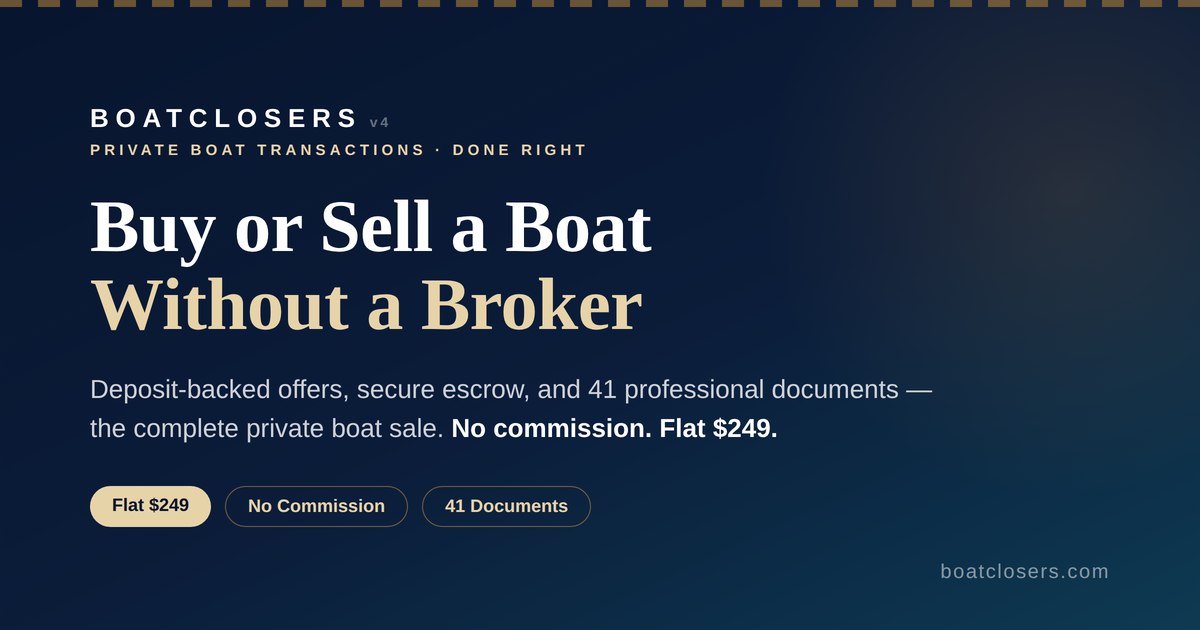
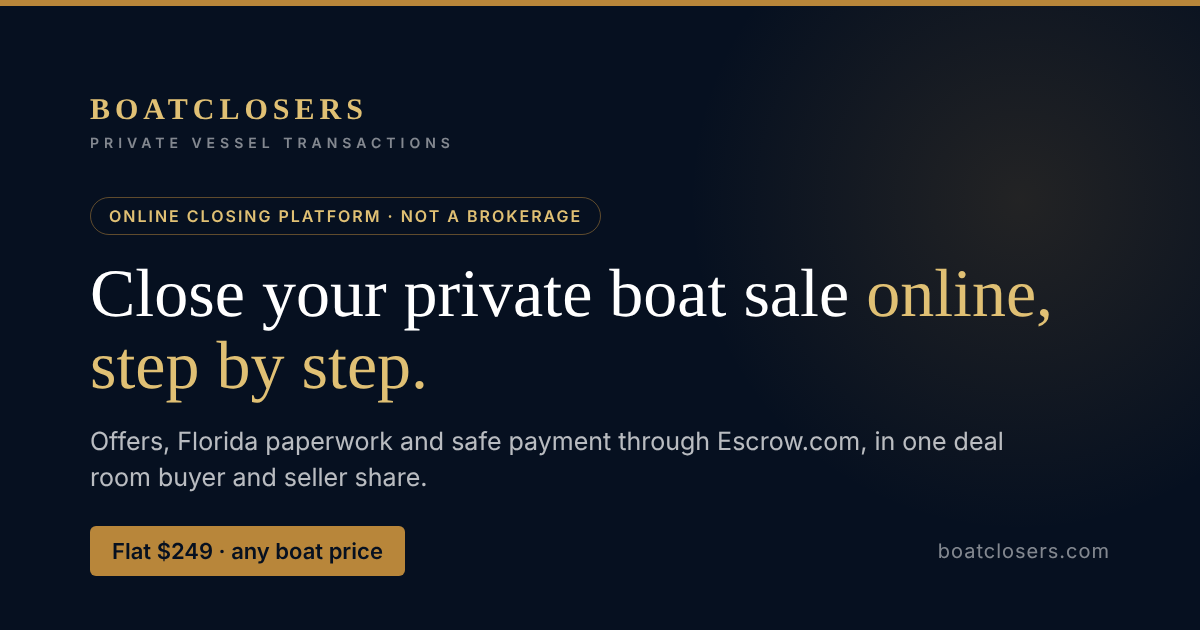
SEO and clarity fixes: server-rendered homepage, Express price, states
- Homepage is now rendered on the server (was ssr:false), so Google and
  link previews get the full text. During the session check the homepage
  renders under the loading overlay; a pre-paint script shows the overlay
  only when a session or link params exist, so signed-in users see no flash
- Phone layout switch moved to before first paint so server and client
  HTML match (no hydration redraw)
- Express: own share card and image at $29.99 (was inheriting "Flat $249");
  "seller signs the papers but never needs an account"; inspection is
  "not a replacement for a marine survey" + new FAQ
- New share image for the homepage (old one said "Without a Broker",
  "No commission", 41 documents)
- Pricing: what $249 covers, flat at any boat price, Escrow.com fee separate
- "What not a brokerage means" line in the broker trust band
- "Florida today, more states coming" band with email + state signup
  (new state_interest table, server-only) and FAQs for states and $249

Claude-Session: https://claude.ai/code/session_01P1Gv5uzS5AiaAt9T1HGHAj

diff --git a/src/components/BoatClosersApp.jsx b/src/components/BoatClosersApp.jsx
@@ -1,7 +1,9 @@
 'use client'
 import DocumentsStepV2 from "./DocumentsStepV2";
 import ContingencyPicker from "./ContingencyPicker";
-import { useState, useRef, useEffect, useCallback } from "react";
+import { useState, useRef, useEffect, useLayoutEffect, useCallback } from "react";
+// useLayoutEffect on the client (runs before paint), a no-op on the server.
+const useIsoLayoutEffect = typeof window !== "undefined" ? useLayoutEffect : useEffect;
 import { DOCUMENTS, fillDocument } from "../data/documents";
 import VesselLookup from "./VesselLookup";
 import DocFinder from "./DocFinder";
@@ -5699,9 +5701,10 @@ function ProductPreview({ F, X, isMobile, onStart }) {
   // moves while someone is reading.
   const SLIDE_MS = 7000;
   const boxRef = useRef(null);
-  const [auto, setAuto] = useState(() => {
-    try { return !window.matchMedia("(prefers-reduced-motion: reduce)").matches; } catch (e) { return true; }
-  });
+  const [auto, setAuto] = useState(true);
+  useEffect(() => {
+    try { if (window.matchMedia("(prefers-reduced-motion: reduce)").matches) setAuto(false); } catch (e) {}
+  }, []);
   const [onScreen, setOnScreen] = useState(false);
   const [hover, setHover] = useState(false);
   useEffect(() => {
@@ -5989,15 +5992,62 @@ function ProductPreview({ F, X, isMobile, onStart }) {
   );
 }
 
+// ── "Florida today, more states coming" with a state-interest signup ─────────
+const US_STATES = [["AL","Alabama"],["AK","Alaska"],["AZ","Arizona"],["AR","Arkansas"],["CA","California"],["CO","Colorado"],["CT","Connecticut"],["DE","Delaware"],["DC","District of Columbia"],["GA","Georgia"],["HI","Hawaii"],["ID","Idaho"],["IL","Illinois"],["IN","Indiana"],["IA","Iowa"],["KS","Kansas"],["KY","Kentucky"],["LA","Louisiana"],["ME","Maine"],["MD","Maryland"],["MA","Massachusetts"],["MI","Michigan"],["MN","Minnesota"],["MS","Mississippi"],["MO","Missouri"],["MT","Montana"],["NE","Nebraska"],["NV","Nevada"],["NH","New Hampshire"],["NJ","New Jersey"],["NM","New Mexico"],["NY","New York"],["NC","North Carolina"],["ND","North Dakota"],["OH","Ohio"],["OK","Oklahoma"],["OR","Oregon"],["PA","Pennsylvania"],["RI","Rhode Island"],["SC","South Carolina"],["SD","South Dakota"],["TN","Tennessee"],["TX","Texas"],["UT","Utah"],["VT","Vermont"],["VA","Virginia"],["WA","Washington"],["WV","West Virginia"],["WI","Wisconsin"],["WY","Wyoming"],["PR","Puerto Rico"],["VI","U.S. Virgin Islands"]];
+function StatesBand({ F, X, isMobile }) {
+  const [email, setEmail] = useState("");
+  const [st, setSt] = useState("");
+  const [trap, setTrap] = useState("");
+  const [state, setState] = useState({ busy:false, ok:false, err:"" });
+  const submit = async (e) => {
+    e.preventDefault();
+    setState({ busy:true, ok:false, err:"" });
+    try {
+      const r = await fetch("/api/state-interest", { method:"POST", headers:{ "Content-Type":"application/json" }, body: JSON.stringify({ email, state: st, website: trap }) });
+      const j = await r.json().catch(()=>({}));
+      setState(r.ok ? { busy:false, ok:true, err:"" } : { busy:false, ok:false, err: j.error || "Could not save." });
+    } catch { setState({ busy:false, ok:false, err:"Network error. Please try again." }); }
+  };
+  const field = { fontFamily:F.sans, fontSize:14, padding:"11px 12px", border:`1px solid ${X.mist}`, borderRadius:6, background:"#fff", color:C.navy, minWidth:0 };
+  return (
+    <div style={{ background:X.sandWarm, borderBottom:`0.5px solid ${X.mist}`, padding:"2.75rem 1.25rem" }}>
+      <div style={{ maxWidth:640, margin:"0 auto", textAlign:"center" }}>
+        <div style={{ fontFamily:F.sans, fontSize:11, letterSpacing:3, color:C.brass, textTransform:"uppercase", fontWeight:600 }}>Where we work</div>
+        <h2 style={{ fontFamily:F.serif, fontWeight:500, fontSize:23, color:C.navy, margin:"10px 0 8px" }}>Florida today, more states coming</h2>
+        <p style={{ fontFamily:F.sans, fontSize:14, color:X.slate, lineHeight:1.7, margin:"0 auto 18px", maxWidth:540 }}>
+          The paperwork is built for Florida deals and Coast Guard documented boats. Buying or selling somewhere else? Tell us where, and we&rsquo;ll let you know when your state is ready.
+        </p>
+        {state.ok ? (
+          <div style={{ fontFamily:F.sans, fontSize:14, color:"#2e7d4f", fontWeight:600 }}>Thanks — we&rsquo;ll email you when your state is ready.</div>
+        ) : (
+          <form onSubmit={submit} style={{ display:"flex", gap:8, flexWrap:"wrap", justifyContent:"center" }}>
+            <input type="text" value={trap} onChange={e=>setTrap(e.target.value)} tabIndex={-1} autoComplete="off" aria-hidden="true" style={{ position:"absolute", left:-9999, width:1, height:1, opacity:0 }} />
+            <input type="email" required value={email} onChange={e=>setEmail(e.target.value)} placeholder="Your email" aria-label="Your email" style={{ ...field, flex: isMobile ? "1 1 100%" : "1 1 220px" }} />
+            <select required value={st} onChange={e=>setSt(e.target.value)} aria-label="Your state" style={{ ...field, flex: isMobile ? "1 1 100%" : "0 1 190px" }}>
+              <option value="">Your state…</option>
+              {US_STATES.map(([c,n])=> <option key={c} value={c}>{n}</option>)}
+            </select>
+            <button type="submit" disabled={state.busy} style={{ fontFamily:F.sans, fontSize:14, fontWeight:600, background:C.navy, color:"#fff", border:"none", borderRadius:4, padding:"11px 20px", cursor:"pointer", flex: isMobile ? "1 1 100%" : "0 0 auto" }}>{state.busy ? "Saving…" : "Notify me"}</button>
+          </form>
+        )}
+        {state.err && <div style={{ fontFamily:F.sans, fontSize:12.5, color:"#b3261e", marginTop:8 }}>{state.err}</div>}
+      </div>
+    </div>
+  );
+}
+
 function Landing({ onStart, onLegal }) {
   const [showDocFinder, setShowDocFinder] = useState(false);
   const groupOrder = [...new Set(DOCUMENTS.map(d=>d.group))];
   const DOC_COUNT = DOCUMENTS.length;
   const CAT_COUNT = groupOrder.length;
 
-  const [isMobile, setIsMobile] = useState(typeof window !== "undefined" ? window.innerWidth < 760 : false);
-  useEffect(() => {
+  // Start as desktop on both server and client so the first render matches the
+  // server HTML, then switch to the phone layout before the first paint.
+  const [isMobile, setIsMobile] = useState(false);
+  useIsoLayoutEffect(() => {
     const onR = () => setIsMobile(window.innerWidth < 760);
+    onR();
     window.addEventListener("resize", onR);
     return () => window.removeEventListener("resize", onR);
   }, []);
@@ -6128,6 +6178,7 @@ function Landing({ onStart, onLegal }) {
           {eyebrow("Built by someone who's closed these deals")}
           <h2 style={{ ...h2s, fontSize:24, color:C.navy, margin:"14px 0" }}>Not a template site — a working broker's process, put in your hands</h2>
           <p style={{ ...lead, maxWidth:620, margin:"0 auto 24px" }}>BoatClosers was built by a licensed Florida yacht broker and captain — from how real vessel transactions actually close, including the complicated ones. The documents follow recognized maritime and state-transfer standards, and the platform flags anything that needs a notary or an attorney. You get a professional's process; you stay in control of your own deal.</p>
+          <p style={{ ...lead, maxWidth:620, margin:"-8px auto 24px", fontSize:14, color:C.navy }}><b>What &ldquo;not a brokerage&rdquo; means:</b> BoatClosers isn&rsquo;t anyone&rsquo;s broker in your deal. You and the other party run it yourselves with our tools, and nobody takes a commission.</p>
           <div style={{ display:"flex", justifyContent:"center", flexWrap:"wrap", gap:"10px 12px" }}>
             {["Licensed FL yacht broker & captain","Maritime & state-transfer standards","We never hold or touch your money"].map(t=>(
               <div key={t} style={{ fontFamily:F.sans, fontSize:12, color:C.navy, background:X.paper, border:`0.5px solid ${X.mist}`, borderRadius:20, padding:"8px 16px" }}>{t}</div>
@@ -6240,17 +6291,22 @@ function Landing({ onStart, onLegal }) {
           <div style={{ background:"rgba(255,255,255,0.04)", border:`1.5px solid ${C.brass}`, borderRadius:12, padding:"2.25rem" }}>
             <div style={{ display:"inline-flex", alignItems:"center", gap:10, fontFamily:F.sans, fontSize:11, letterSpacing:3, color:X.brassLt, textTransform:"uppercase", fontWeight:500 }}>Per transaction</div>
             <div style={{ fontFamily:F.sans, fontSize:56, fontWeight:600, color:"#fff", lineHeight:1, marginTop:12 }}>$249</div>
-            <div style={{ fontFamily:F.sans, fontSize:12, color:"rgba(255,255,255,0.45)", marginBottom:22 }}>Flat fee · one vessel · one deal</div>
+            <div style={{ fontFamily:F.sans, fontSize:12, color:"rgba(255,255,255,0.45)", marginBottom:10 }}>Flat fee · one vessel · one deal</div>
+            <div style={{ fontFamily:F.sans, fontSize:13, color:"rgba(255,255,255,0.82)", lineHeight:1.6, marginBottom:20 }}>Covers the whole transaction, from the first offer to the signed closing — not just the paperwork.</div>
             <div style={{ textAlign:"left", fontFamily:F.sans, fontSize:13, lineHeight:2.15, color:"rgba(255,255,255,0.78)" }}>
               {[`All ${DOC_COUNT} documents, ${CAT_COUNT} categories`,"See only what your deal needs","Electronic signatures for both parties","Full negotiation, offers & contingencies","Five escrow options","Due-diligence & closing checklists","Financing & lender paperwork","One flat fee, no subscription, ever"].map(f=>(
                 <div key={f} style={{ display:"flex", gap:9, alignItems:"baseline" }}><span style={{ color:C.brass }}>✓</span><span>{f}</span></div>
               ))}
             </div>
             <button style={{ ...brassBtn, display:"block", width:"100%", marginTop:22, padding:13 }} onClick={onStart}>Start Free — Pay When Ready</button>
-            <div style={{ fontFamily:F.sans, fontSize:11, color:"rgba(255,255,255,0.3)", marginTop:12 }}>Same price whether the boat is $5,000 or $500,000</div>
+            <div style={{ fontFamily:F.sans, fontSize:12, color:"rgba(255,255,255,0.55)", marginTop:14, lineHeight:1.6 }}>Same $249 whether the boat is $5,000 or $500,000. Services that charge a percentage cost more the bigger the boat; this doesn&rsquo;t.</div>
+            <div style={{ fontFamily:F.sans, fontSize:11, color:"rgba(255,255,255,0.35)", marginTop:8, lineHeight:1.6 }}>If you use Escrow.com, its own fee is separate and paid to Escrow.com.</div>
           </div>
         </div>
       </div>
+
+      {/* Where we work */}
+      <StatesBand F={F} X={X} isMobile={isMobile} />
 
       {/* FAQ */}
       <div style={{ maxWidth:720, margin:"0 auto", padding:"3.75rem 1.25rem" }}>
@@ -6490,6 +6546,9 @@ export default function BoatClosers() {
   // After a few seconds of "Loading…", offer a way out rather than leaving
   // someone staring at a screen with no controls on it.
   const [bootStuck, setBootStuck] = useState(false);
+  useEffect(() => {
+    if (!booting) { try { document.documentElement.classList.remove("bc-boot"); } catch (e) {} }
+  }, [booting]);
   useEffect(() => {
     if (!booting) { setBootStuck(false); return; }
     const t = setTimeout(() => setBootStuck(true), 6000);
@@ -7200,9 +7259,18 @@ export default function BoatClosers() {
     setScreen("landing");
   };
 
+  // While the session check runs, render the real homepage underneath the
+  // loading screen. The server sends this HTML, so Google and link previews
+  // read the full homepage. A tiny script in layout.tsx adds "bc-boot" to
+  // <html> before paint when a session or link parameters exist, which shows
+  // the loading overlay and hides the homepage, so signed-in users never see
+  // it flash. Visitors with nothing to restore just see the homepage.
+  const landingEl = <Landing onStart={(r)=>{ if(r==="buyer"||r==="seller") setAuthRole(r); setScreen("auth"); }} onLegal={(p)=>setScreen(p)}/>;
   if (booting) {
     return (
-      <div style={{ minHeight:"100vh", background:C.navy, display:"flex", alignItems:"center", justifyContent:"center" }}>
+      <>
+        <div className="bc-boot-landing">{landingEl}<LegalFooter C={C} authedFetch={authedFetch} signedIn={false} /></div>
+        <div className="bc-boot-overlay" style={{ position:"fixed", inset:0, zIndex:1000, minHeight:"100vh", background:C.navy, alignItems:"center", justifyContent:"center" }}>
         <div style={{ textAlign:"center" }}>
           <div style={{ ...S.logo, fontSize:22 }}>BOATCLOSERS</div>
           <div style={{ ...S.logoSub, color:"rgba(255,255,255,0.35)" }}>Loading…</div>
@@ -7221,12 +7289,13 @@ export default function BoatClosers() {
           )}
         </div>
       </div>
+      </>
     );
   }
 
   // Every screen carries the legal footer — landing, sign-in, and the deal.
   const withFooter = (node) => (<>{node}<LegalFooter C={C} authedFetch={authedFetch} signedIn={!!user} /></>);
-  if (screen==="landing") return withFooter(<Landing onStart={(r)=>{ if(r==="buyer"||r==="seller") setAuthRole(r); setScreen("auth"); }} onLegal={(p)=>setScreen(p)}/>);
+  if (screen==="landing") return withFooter(landingEl);
   if (screen==="mydeals") return withFooter(
     <MyDeals C={C} S={S} deals={myDeals} loading={myDealsLoading}
       onOpen={(id)=>openDealById(id)}

diff --git a/src/app/express/page.tsx b/src/app/express/page.tsx
@@ -4,22 +4,31 @@ import Link from 'next/link'
 export const metadata: Metadata = {
   title: 'BoatClosers Express: Buy a Boat From a Private Seller the Right Way — $29.99 (Florida)',
   description:
-    'Everything you need to buy a boat, trailer, or motor from a private seller in Florida — a free HIN and lien check, a guided inspection, every state form filled in, and your title application pre-filled, for a flat $29.99. The seller never signs up.',
+    'Everything you need to buy a boat, trailer, or motor from a private seller in Florida — a free HIN and lien check, a guided inspection, every state form filled in, and your title application pre-filled, for a flat $29.99. The seller signs the papers but never needs an account.',
   alternates: {
     canonical: 'https://www.boatclosers.com/express',
   },
   openGraph: {
     type: 'website',
     url: 'https://www.boatclosers.com/express',
-    title: 'BoatClosers Express',
+    title: 'BoatClosers Express — $29.99',
     description:
-      'Everything you need to buy a boat from a private seller in Florida — inspection, paperwork, and title, for $29.99. The seller never has to sign up.',
+      'Everything you need to buy a boat from a private seller in Florida — inspection, paperwork, and title, for $29.99. The seller signs the papers but never needs an account.',
+    images: [{ url: '/og-express.png', width: 1200, height: 630, alt: 'BoatClosers Express — $29.99' }],
+  },
+  // Its own X/Twitter card, so shares don't inherit the homepage's $249 text.
+  twitter: {
+    card: 'summary_large_image',
+    title: 'BoatClosers Express — $29.99',
+    description:
+      'Buy a boat from a private seller in Florida: inspection, paperwork and title for $29.99. The seller signs the papers but never needs an account.',
+    images: ['/og-express.png'],
   },
 }
 
 const steps = [
   { title: 'Before you pay', price: 'Free', text: 'Free HIN check, a lien check, the right questions to ask, and how to pay safely — so you don’t waste a trip or get surprised.' },
-  { title: 'Inspect it', price: '$29.99', text: 'A guided phone walkthrough of the hull, engine, systems, trailer, and sea trial — with a condition report you can use to renegotiate.' },
+  { title: 'Inspect it', price: '$29.99', text: 'A guided phone walkthrough of the hull, engine, systems, trailer, and sea trial — with a condition report you can use to renegotiate. Not a replacement for a marine survey.' },
   { title: 'At the handoff', price: 'Included', text: 'Your Florida bill of sale and form HSMV 82050 filled in, plus a title-signing guide so nothing gets rejected at the counter.' },
   { title: "After it's yours", price: 'Included', text: 'A pre-filled Florida title application, exactly what to bring to the tax collector, and a reminder before your 30-day deadline.' },
 ]
@@ -32,7 +41,8 @@ const tips = [
 ]
 
 const faqs = [
-  { q: 'Does the seller have to sign up?', a: 'No. You handle everything. The seller just signs the papers at the handoff.' },
+  { q: 'Does the seller have to sign up?', a: 'No account needed. The seller signs the bill of sale and title at the handoff, and you handle everything else.' },
+  { q: 'Does the inspection replace a marine survey?', a: 'No. The guided inspection is a structured walkthrough you do yourself with your phone, to catch problems and give you facts to negotiate with. It is not a professional marine survey, and lenders and insurers may still require one. On a bigger or older boat, or if anything looks off, hire a surveyor.' },
   { q: 'What does it cost?', a: 'Checking is free — the HIN check, lien check, and seller questions. The guided inspection, condition report, and all the paperwork are $29.99, one price for a boat, a trailer, a motor, or all three.' },
   { q: 'Is this only for Florida?', a: 'For now, yes. Florida titling rules are built in, so your paperwork matches what the tax collector expects.' },
   { q: 'What if my deal needs more?', a: 'Express is for a simple sale: price agreed, nothing held in escrow, clear title. If you need to negotiate, hold a deposit, make the sale depend on a survey, finance it, or sign a purchase agreement, full BoatClosers ($249) handles all of it — and your $29.99 comes off the $249.' },
@@ -89,10 +99,10 @@ export default function Page() {
             Everything you need to buy a boat from a private seller — <span style={{ color: 'var(--brass-lt)' }}>inspection to title.</span>
           </h1>
           <p className="sans" style={{ fontSize: 16, color: 'rgba(255,255,255,0.76)', lineHeight: 1.75, marginTop: 16, maxWidth: 500, marginLeft: 'auto', marginRight: 'auto' }}>
-            You and the seller agreed on the price — Express handles the rest. Check the boat free, then get it inspected, signed, and titled right in Florida for a flat $29.99. No broker, no hassle, and the seller never signs up.
+            You and the seller agreed on the price — Express handles the rest. Check the boat free, then get it inspected, signed, and titled right in Florida for a flat $29.99. No broker, no hassle, and the seller signs the papers but never needs an account.
           </p>
           <div className="sans" style={{ display: 'inline-block', marginTop: 20, color: 'var(--brass-lt)', fontSize: 12, border: '0.5px solid rgba(184,134,58,0.45)', borderRadius: 20, padding: '6px 16px', letterSpacing: 0.5 }}>
-            Free to check · $29.99 to close · no seller sign-up
+            Free to check · $29.99 to close · no seller account
           </div>
           <div style={{ marginTop: 24 }}>
             <a href="/express/start" className="btn">Start free</a>

diff --git a/src/app/api/state-interest/route.ts b/src/app/api/state-interest/route.ts
@@ -1,0 +1,28 @@
+import { NextResponse } from 'next/server'
+import { createClient } from '@supabase/supabase-js'
+
+// Homepage "more states coming" signup: saves the email + the state someone
+// wants BoatClosers in, so the owner can see which states to add next.
+// Server-only table (RLS on, no policies); a hidden field catches bots.
+export const dynamic = 'force-dynamic'
+
+const STATES = new Set('AL AK AZ AR CA CO CT DE DC FL GA HI ID IL IN IA KS KY LA ME MD MA MI MN MS MO MT NE NV NH NJ NM NY NC ND OH OK OR PA RI SC SD TN TX UT VT VA WA WV WI WY PR VI'.split(' '))
+
+export async function POST(request: Request) {
+  let body: { email?: string; state?: string; website?: string }
+  try { body = await request.json() } catch { return NextResponse.json({ error: 'Invalid request' }, { status: 400 }) }
+  if (body.website) return NextResponse.json({ ok: true })
+
+  const email = (body.email || '').trim().toLowerCase()
+  const state = (body.state || '').trim().toUpperCase()
+  if (!/^\S+@\S+\.\S+$/.test(email) || email.length > 254) return NextResponse.json({ error: 'Please enter a valid email.' }, { status: 400 })
+  if (!STATES.has(state)) return NextResponse.json({ error: 'Please pick a state.' }, { status: 400 })
+
+  const sb = createClient(process.env.NEXT_PUBLIC_SUPABASE_URL!, process.env.SUPABASE_SERVICE_ROLE_KEY!, { auth: { persistSession: false } })
+  const { error } = await sb.from('state_interest').insert({ email, state })
+  if (error && error.code !== '23505') {
+    console.error('state-interest insert failed:', error)
+    return NextResponse.json({ error: 'Could not save. Please try again.' }, { status: 500 })
+  }
+  return NextResponse.json({ ok: true })
+}

diff --git a/src/lib/faqs.ts b/src/lib/faqs.ts
@@ -102,6 +102,16 @@ export const FAQ_GROUPS: FaqGroup[] = [
         guide: { slug: 'boat-survey-came-back-bad', title: 'What to Do When a Boat Survey Comes Back Bad' },
       },
       {
+        id: 'which-states',
+        q: 'Does BoatClosers work outside Florida?',
+        a: 'BoatClosers is built for Florida deals and Coast Guard documented boats today, and more states are coming. If you are buying or selling somewhere else, add your email and state on the homepage and we will let you know when your state is ready.',
+      },
+      {
+        id: 'what-249-covers',
+        q: 'What does the $249 cover?',
+        a: 'The whole transaction, from the first offer to the signed closing: the deal room, offers and counters, contingencies, due diligence and closing checklists, and every document your deal needs, filled in and signed electronically. It is the same $249 whatever the boat costs. If you use Escrow.com to hold the money, its own fee is separate and paid to Escrow.com.',
+      },
+      {
         id: 'who-pays',
         q: 'Who pays the $249 fee?',
         a: 'Whoever starts the deal pays the flat fee and controls the vessel details and terms. The other party joins free to review, add their information, and sign.',

diff --git a/src/app/layout.tsx b/src/app/layout.tsx
@@ -73,6 +73,10 @@ export default function RootLayout({
         {/* Landing-page fonts, loaded for every screen so the app matches it. */}
         <link rel="preconnect" href="https://fonts.googleapis.com" />
         <link rel="preconnect" href="https://fonts.gstatic.com" crossOrigin="" />
+        {/* Before paint: if there's a saved session or link parameters, show the
+            loading screen instead of flashing the homepage (see BoatClosersApp). */}
+        <script dangerouslySetInnerHTML={{ __html: "try{if(location.pathname==='/'&&(localStorage.getItem('bc_session')||location.search.length>1)){document.documentElement.classList.add('bc-boot')}}catch(e){}" }} />
+        <style dangerouslySetInnerHTML={{ __html: ".bc-boot-overlay{display:none}html.bc-boot .bc-boot-overlay{display:flex}html.bc-boot .bc-boot-landing{visibility:hidden}" }} />
         <link id="bc-landing-fonts" rel="stylesheet" href="https://fonts.googleapis.com/css2?family=Fraunces:opsz,wght@9..144,500;9..144,600;9..144,700&family=Newsreader:opsz,wght@6..72,400;6..72,500;6..72,600&family=Inter:wght@400;500;600;700&display=swap" />
       </head>
       <body>

diff --git a/src/app/page.tsx b/src/app/page.tsx
@@ -1,12 +1,8 @@
-'use client'
+import BoatClosersApp from '@/components/BoatClosersApp'
 
-import dynamic from 'next/dynamic'
-
-const BoatClosersApp = dynamic(
-  () => import('@/components/BoatClosersApp'),
-  { ssr: false }
-)
-
+// Rendered on the server too, so the homepage text (headline, sections,
+// buttons) is in the HTML that Google and link previews read. Signed-in
+// visitors still go straight to their deal once the app loads.
 export default function Page() {
   return <BoatClosersApp />
 }
